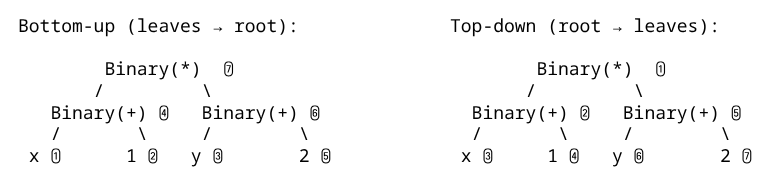
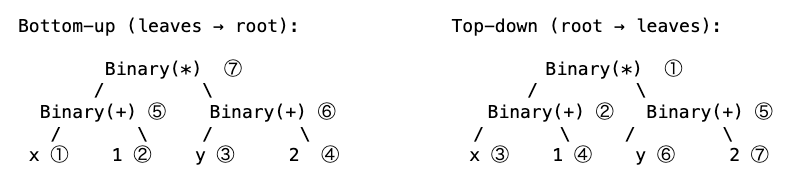
edits

diff --git a/_posts/2026-01-30-traversals-rewrites.md b/_posts/2026-01-30-traversals-rewrites.md
@@ -22,7 +22,7 @@ _How do we visit *all* nodes in a tree, not just the top level?_
 
 This is where traversals come into play as the essential tool. A traversal focuses on zero or more elements within a structure, making it perfect for recursive tree operations.
 
-The [Focus DSL](https://higher-kinded-j.github.io/latest/optics/ch4_intro.html) provides `TraversalPath`: a fluent wrapper around traversals that makes collection navigation elegant and composable. By the end of this article, you'll be writing code like:
+The [Focus DSL](https://higher-kinded-j.github.io/latest/optics/ch4_intro.html) provides `TraversalPath`: a fluent wrapper around traversals that makes collection navigation readable and composable. By the end of this article, you'll be writing code like:
 
 ~~~~ java
 // Navigate all employees in all departments, modify their salaries
@@ -64,14 +64,6 @@ new Binary(
 
 Visualised as a tree:
 ![mfj-traversal-rewrite-1.png]({{site.baseurl}}/magnussmith/assets/optics/mfj-traversal-rewrite-1.png "Binary Tree")
-
-```
-                    Binary(*)
-                   /         \
-            Binary(+)        Binary(+)
-           /        \       /        \
-     Variable(x)  Literal(1)  Variable(y)  Literal(2)
-```
 
 This tree has seven nodes: three `Binary` expressions, two `Variable` nodes, and two `Literal` nodes. If we want to find all variables, we can't just look at the top level; we need to descend into every branch.
 
@@ -215,16 +207,8 @@ The choice between bottom-up and top-down matters:
 
 Here's the traversal order visualised:
 
-```
 ![mfj-traversal-rewrite-2.png]({{site.baseurl}}/magnussmith/assets/optics/mfj-traversal-rewrite-2.png "Bottom-up Top-down Trees")
-Bottom-up (leaves → root):              Top-down (root → leaves):
 
-        Binary(*)  ⑦                            Binary(*)  ①
-       /         \                             /         \
-   Binary(+) ④   Binary(+) ⑥              Binary(+) ②   Binary(+) ⑤
-   /       \     /        \               /       \     /        \
- x ①    1 ②    y ③     2 ⑤             x ③    1 ④    y ⑥     2 ⑦
-```
 
 For constant folding, bottom-up is essential: we need to evaluate `1 + 2` at the leaves before we can recognise that the parent is now `3 * 5`.
 
@@ -614,7 +598,7 @@ public static Located<Expr> transformPreservingLocation(
 }
 ~~~~
 
-For more sophisticated location handling (like updating locations when inlining code), indexed optics become valuable. We'll explore those in Article 5.
+For more sophisticated location handling (like updating locations when inlining code), indexed optics become valuable. We'll explore those in Part 5.
 
 ---
 
@@ -652,28 +636,11 @@ public final class ExprOptimiser {
 
 The fixed-point iteration ensures we catch cascading simplifications:
 ![mfj-traversal-rewrite-3.png]({{site.baseurl}}/magnussmith/assets/optics/mfj-traversal-rewrite-3.png "Optimisation Pipeline")
-```
-┌─────────────────────────────────────────────────────────────┐
-│                    Optimisation Pipeline                    │
-├─────────────────────────────────────────────────────────────┤
-│                                                             │
-│  Input ──▶ [Constant Fold] ──▶ [Simplify] ──▶ [Dead Branch] │
-│              │                                     │        │
-│              └─────────────◀── Loop ◀─────────────┘         │
-│                           (until fixed point)               │
-│                                  │                          │
-│                                  ▼                          │
-│                               Output                        │
-└─────────────────────────────────────────────────────────────┘
-```
 
-For example:
+ For example:
 
-```
-(0 * x) + (1 + 2)
-→ 0 + 3         (constant folding, identity)
-→ 3             (identity simplification)
-```
+![mfj-traversal-rewrite-4.png]({{site.baseurl}}/magnussmith/assets/optics/mfj-traversal-rewrite-4.png "Optimisation example")
+
 
 ### Example: Complex Optimisation
 
@@ -694,6 +661,7 @@ Expr optimised = ExprOptimiser.optimise(complex);
 ~~~~
 
 The optimiser:
+
 1. Folds `1 < 2` → `true`
 2. Simplifies `true && true` → `true`
 3. Eliminates the dead else-branch
@@ -740,12 +708,7 @@ EitherPath<String, String> eitherNickname =
 ### What's Ahead: The Effect Path API
 
 Beyond optics and the Focus DSL, Higher-Kinded-J provides the **Effect Path API**: a fluent interface for computations that might fail, accumulate errors, or require deferred execution. The Effect Path types follow the "railway" metaphor where values travel along success or failure tracks:
-![mfj-traversal-rewrite-4.png]({{site.baseurl}}/magnussmith/assets/optics/mfj-traversal-rewrite-4.png "Railway")
-```
-Success Track:  ----[value]----> [transform] ----> [result]
-                        \            |
-Failure Track:           `--------->[error]------> [accumulated errors]
-```
+![mfj-traversal-rewrite-5.png]({{site.baseurl}}/magnussmith/assets/optics/mfj-traversal-rewrite-5.png "Railway")
 
 The core Effect Path types include:
 
@@ -774,7 +737,7 @@ These types integrate seamlessly with Focus paths via bridge methods:
 ~~~~ java
 // Navigate to a field, then enter the Effect Path world
 FocusPath<User, String> emailPath = UserFocus.email();
-```
+~~~~
 
 ### Effect Paths with Traversals
 
@@ -803,20 +766,7 @@ ValidationPath<List<Error>, Company> validated = Path.valid(company, Semigroups.
 
 Effect Paths follow the "railway" pattern where values travel along success or failure tracks:
 ![mfj-traversal-rewrite-5.png]({{site.baseurl}}/magnussmith/assets/optics/mfj-traversal-rewrite-5.png "Railway pattern")
-```
-Input: Company with employees to validate
-         |
-         v
-   +--[Employee 1]---> [validate] ---> Valid ----+
-   |                                              |
-   +--[Employee 2]---> [validate] ---> Invalid --+---> Accumulate
-   |                                              |
-   +--[Employee 3]---> [validate] ---> Valid ----+
-         |
-         v
-Output: ValidationPath<List<Error>, Company>
-        (all errors collected, or valid company)
-```
+
 
 This pattern enables comprehensive validation rather than fail-fast behaviour. The `ValidationPath` accumulates all errors using a `Semigroup`, so users see every problem at once.
 
@@ -885,7 +835,7 @@ But we've been working with pure transformations. Real compilers need effects:
 - **Interpretation** needs to track variable bindings (state)
 - **Optimisation** might need logging for debugging
 
-In Article 5, we'll explore effect-polymorphic optics with `modifyF`. The Focus DSL integrates seamlessly:
+In Part 5, we'll explore effect-polymorphic optics with `modifyF`. The Focus DSL integrates seamlessly:
 
 ~~~~ java
 // Preview: effectful modification through Focus paths
@@ -909,13 +859,10 @@ We'll see how `Validated` differs from `Either` (accumulating all errors rather 
 
 - **Patrick Thomson, ["An Introduction to Recursion Schemes"](https://blog.sumtypeofway.com/posts/introduction-to-recursion-schemes.html)**: A gentle introduction to the theory behind generic tree traversal patterns like catamorphisms and anamorphisms.
 
-- **Jeremy Gibbons & Bruno Oliveira, ["The Essence of the Iterator Pattern"](https://www.cs.ox.ac.uk/jeremy.gibbons/publications/iterator.pdf)** (JFP, 2009): The seminal paper showing how `Applicative` (which Higher-Kinded-J provides) enables effect-polymorphic traversals.
-
 ### Compiler Optimisation
 
 - **Andrew Appel, *Modern Compiler Implementation in ML***: Classic text covering constant folding, dead code elimination, and the other optimisations we've implemented. Available in Java and C editions.
 
-- **Keith Cooper & Linda Torczon, *Engineering a Compiler*** (2nd ed.): Comprehensive coverage of program analysis and transformation passes.
 
 ### Term Rewriting
 
